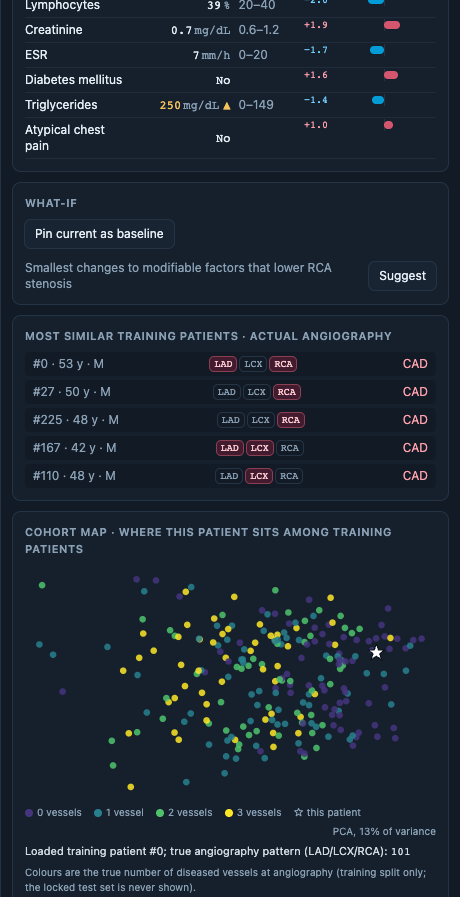
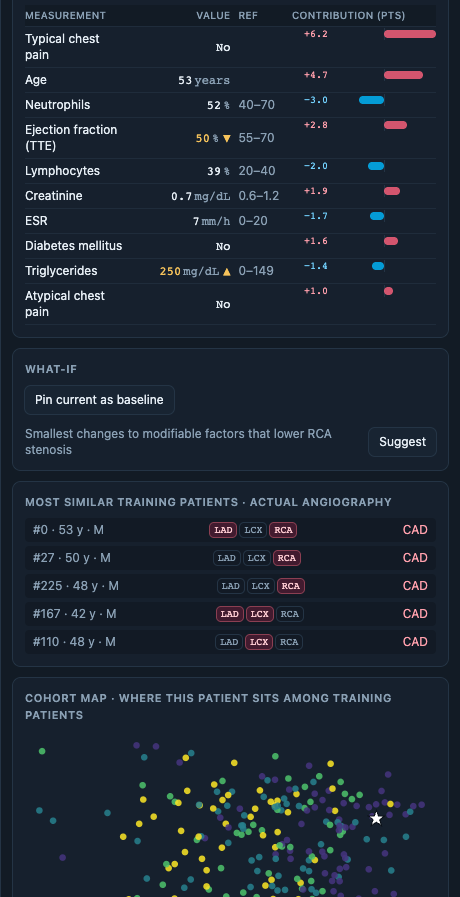
fix: report shows Male / Female and Yes / No instead of 1 / 0

diff --git a/backend/app/report.py b/backend/app/report.py
@@ -29,6 +29,14 @@ LOCALISATION_NOTE = ("Reliable overall CAD risk, with vessel-level estimates as 
                      "artery-specific information.")
 
 
+def _value(f: dict, v) -> str:
+    """Same display text as the app: value labels (e.g. Female / Male) or Yes / No for binary inputs."""
+    if f.get("type") == "binary" and v is not None:
+        on = str(int(float(v) >= 0.5))
+        return str((f.get("value_labels") or {}).get(on, "Yes" if on == "1" else "No"))
+    return str(v)
+
+
 def _pct(p: float) -> str:
     return f"{p * 100:.0f}%"
 
@@ -43,7 +51,7 @@ def render(features: dict, analysis: dict, explanation: dict, fmap: dict, autopr
     mv = analysis["multivessel"]
     app = analysis["applicability"]
     feat_rows = "".join(
-        f"<tr><td>{escape(fmap[k]['label'])}</td><td>{escape(str(v))} {escape(fmap[k].get('unit') or '')}</td>"
+        f"<tr><td>{escape(fmap[k]['label'])}</td><td>{escape(_value(fmap[k], v))} {escape(fmap[k].get('unit') or '')}</td>"
         f"<td>{'imputed' if k in analysis['imputed'] else ''}</td></tr>"
         for k, v in features.items() if k in fmap)
     narr = "".join(f"<h3>{escape(t)}</h3><ul>" + "".join(f"<li>{escape(s)}</li>" for s in e["narrative"]) + "</ul>"

diff --git a/backend/tests/test_api.py b/backend/tests/test_api.py
@@ -203,3 +203,14 @@ def test_report_by_url(client, presets):
     assert "Decision support and educational use only" in printed
     assert client.get("/api/report?features=not-json").status_code == 422
     assert client.get(f"/api/report?features={quote(_json.dumps({'LAD': 1}))}").status_code == 422
+
+
+def test_report_shows_value_labels(client, presets):
+    """Binary inputs read as in the app: Male / Female for sex, Yes / No otherwise (never raw 1 / 0)."""
+    import re
+
+    for sex, word in ((1, "Male"), (0, "Female")):
+        f = {**presets[0]["features"], "sex_male": sex, "dm": 1, "htn": 0}
+        html = client.post("/api/report", json={"features": f}).text
+        assert re.search(rf"<td>Sex</td><td>{word} ", html)
+        assert re.search(r"<td>Diabetes mellitus</td><td>Yes ", html) and re.search(r"<td>Hypertension</td><td>No ", html)
